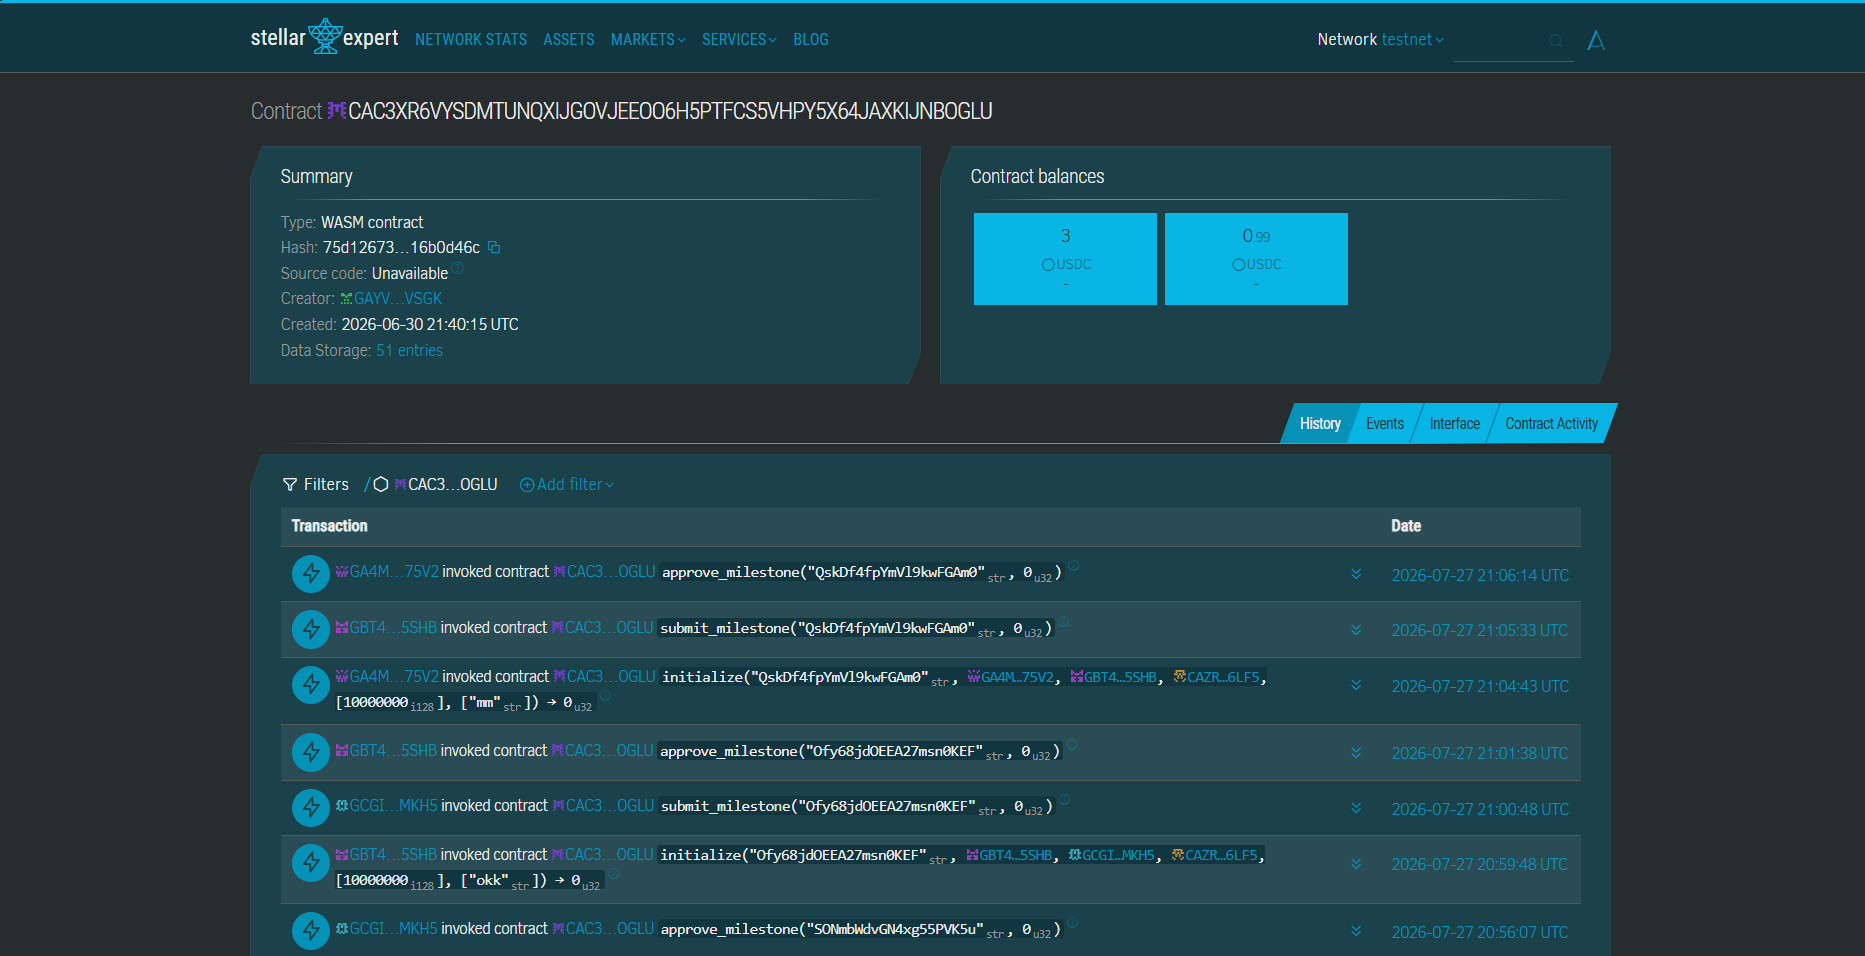
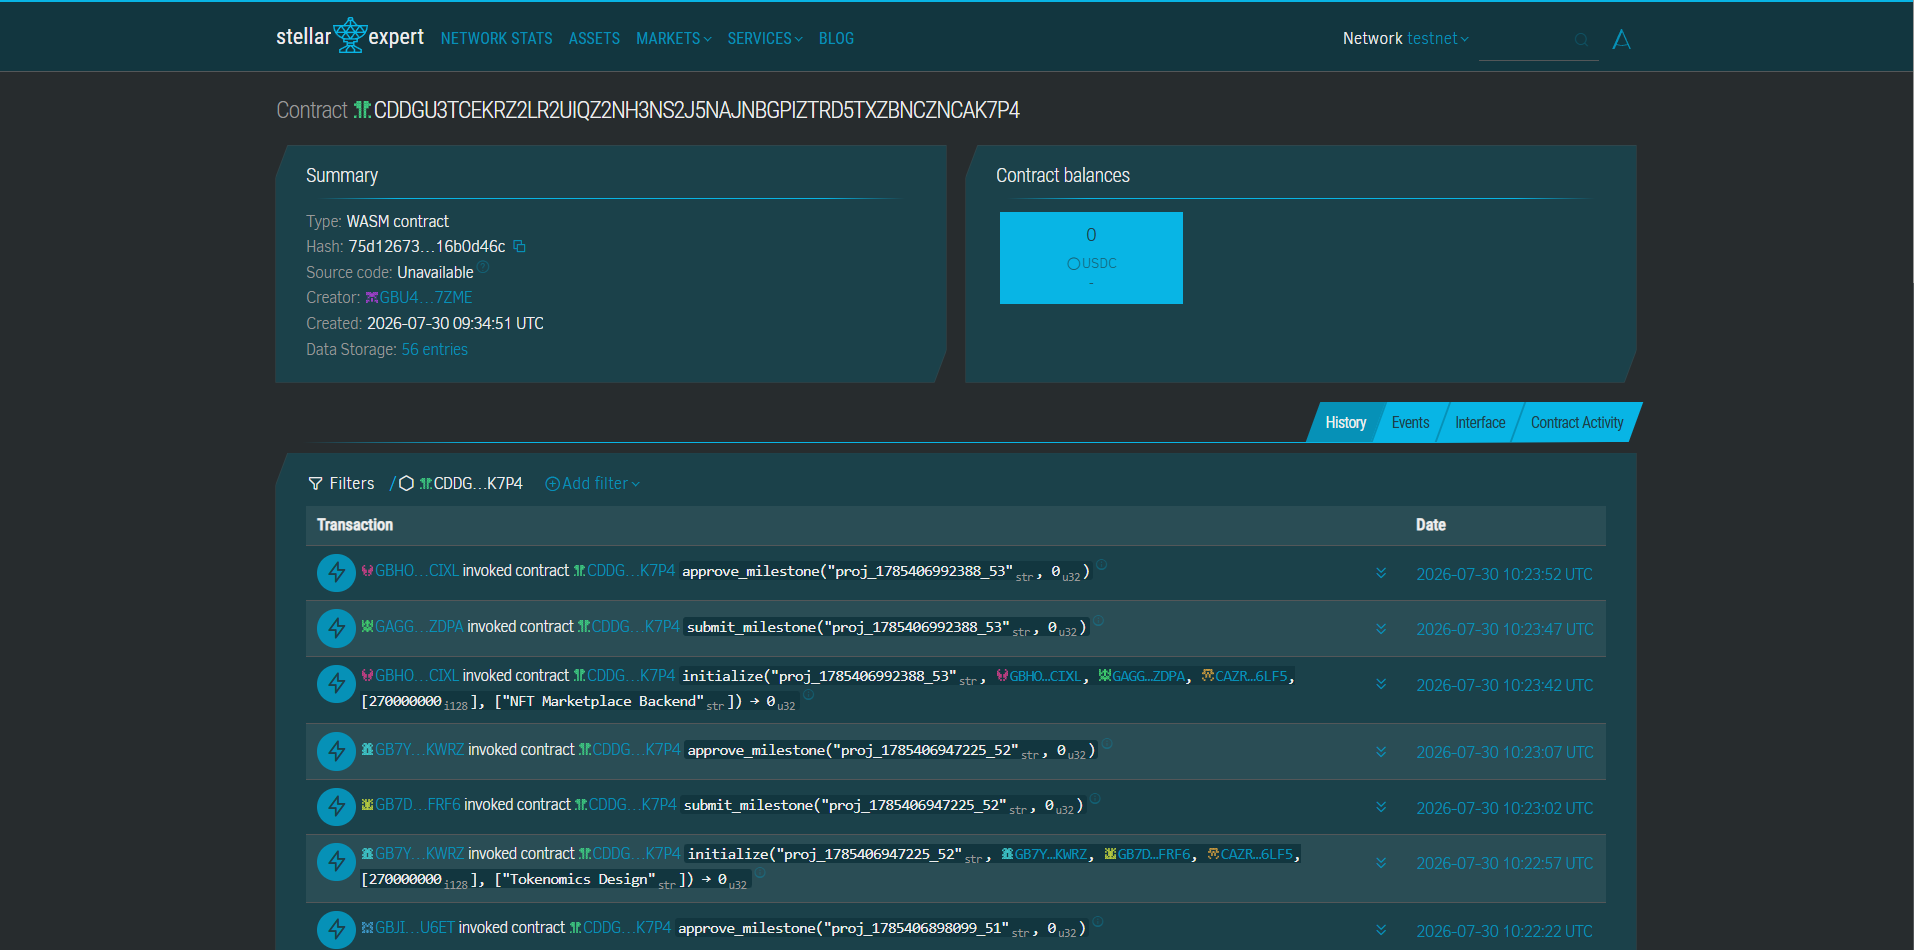
docs: updated readme with v2 contract features and added new screenshot

diff --git a/README.md b/README.md
@@ -57,6 +57,7 @@ This repository contains **over 40+ meaningful commits**, showcasing continuous 
 | 🌍 **Real-World Usefulness** | Solves the trust issue in gig work. Escrow guarantees payment for freelancers and protects clients from incomplete deliverables via fast, borderless payouts. |
 | ⚙ **Technical Complexity** | Seamlessly integrates on-chain Stellar Soroban rust contracts with an off-chain Firebase architecture, state synchronization, and secure transaction signing via Freighter. |
 | 🏗 **Architecture Quality** | Hybrid model: Immutable financial logic on-chain; fast, queryable metadata off-chain. Powered by Next.js App Router for optimal SEO and speed. |
+| 🔗 **V2 Contract (Updated)** | Upgraded smart contract to emit detailed on-chain events (`Init`, `Approve`, `Dispute`) for robust transparency and indexer compatibility. |
 | 💎 **Product Quality** | Premium, production-ready UX. Responsive mobile-first design, comprehensive error handling (Sentry), and real-time user behavior analytics (PostHog). |
 
 <p align="right">(<a href="#readme-top">back to top</a>)</p>
@@ -92,6 +93,7 @@ Below is a curated selection of feedback showcasing how we iterated based on rea
 | *"It's great to see exactly when the funds were deposited."* | I had to check Stellar Expert to see when things happened. | [Commit `c77650c`: Setup PostHog analytics](https://github.com/codeREDxbt/FreelancePay/commit/c77650c) |
 | *"The pre-submit review screen is exactly what I needed for peace of mind."* | I accidentally submitted a contract with a typo and couldn't edit it. | [Commit `9da042c`: Add guided sample contract flow](https://github.com/codeREDxbt/FreelancePay/commit/9da042c) |
 | *"No more failed transactions due to slippage!"* | The conversion rate shown was way off from market. | [Commit `3d18d1a`: Fix SwapModal AMM routing](https://github.com/codeREDxbt/FreelancePay/commit/3d18d1a) |
+| *"Contract lacks events for robust indexing." (SCF Review)* | The contract lacked on-chain event emissions. | **V2 Update:** Added comprehensive `env.events().publish(...)` for all state changes. |
 
 > 🔗 **Full Verified User Feedback:** *For the complete list of all 50+ wallet proofs and feedback responses, please [view the full feedback spreadsheet](https://docs.google.com/spreadsheets/d/1tdmOBKtbPo3PUPHb2Hnbyur88e0z7nderSDRqvJqtMo/edit?usp=sharing).*
 
